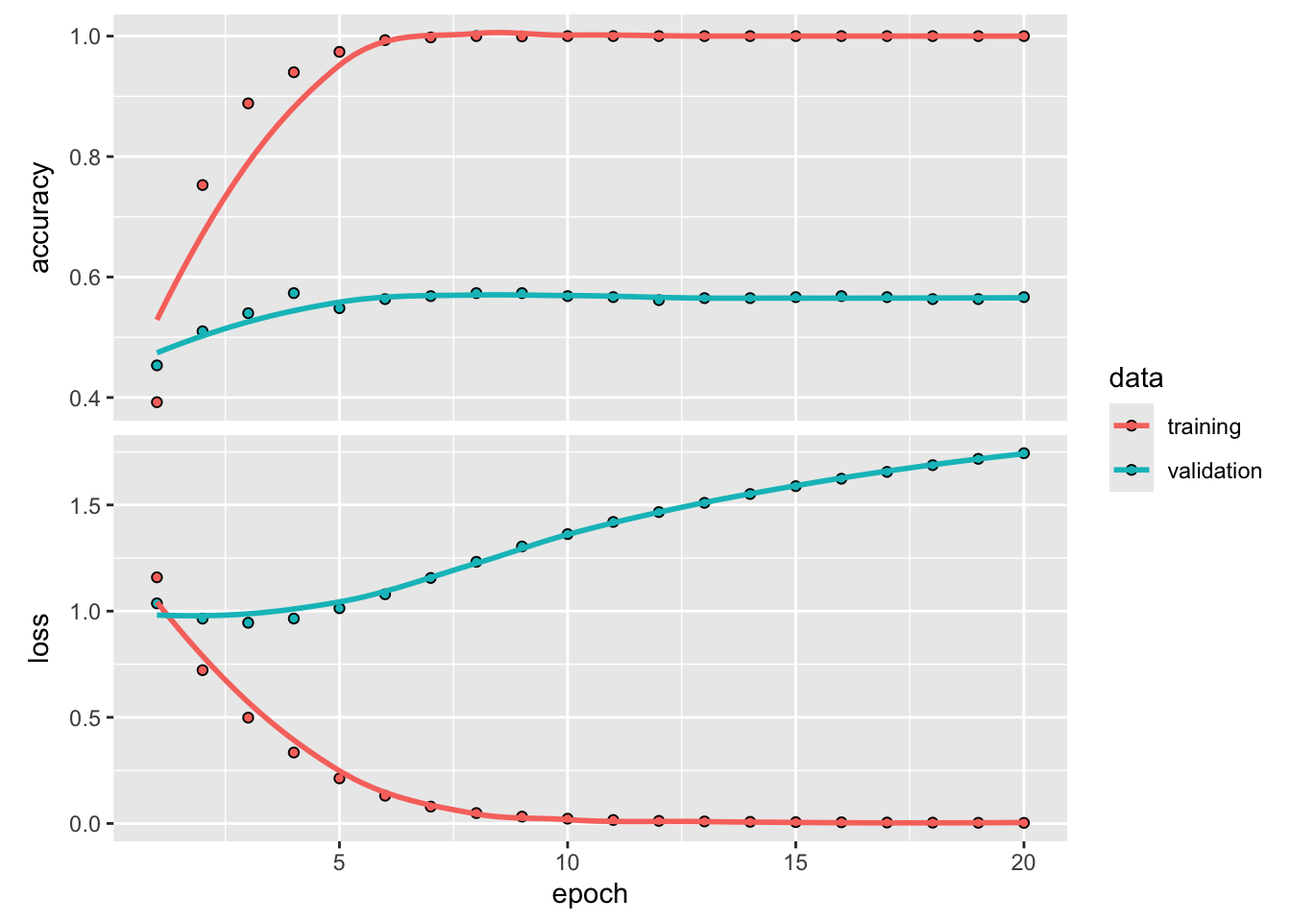
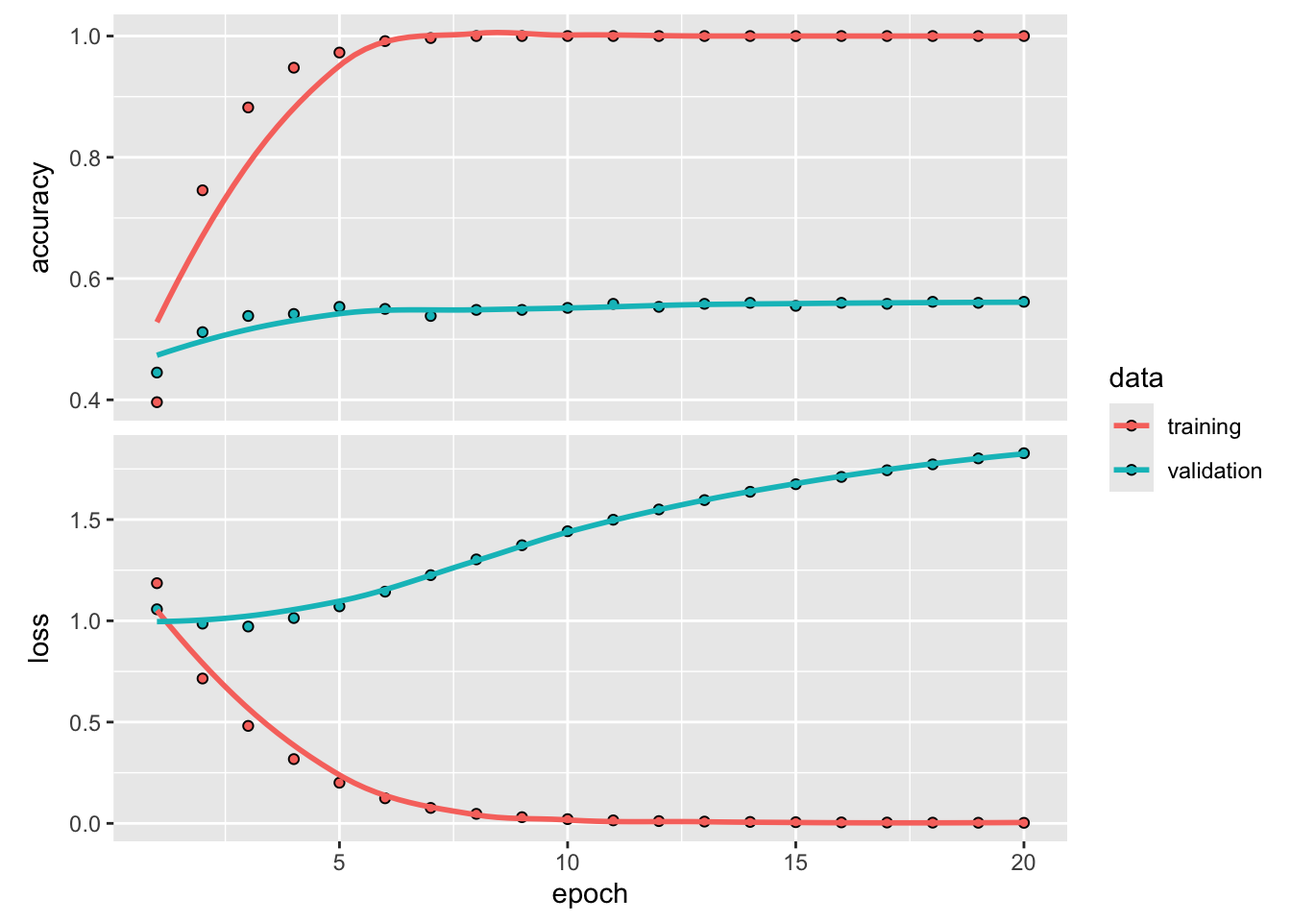
dnn upd (one-hot encoding)

diff --git a/docs/dnn.html b/docs/dnn.html
@@ -329,9 +329,12 @@ pre > code.sourceCode > span > a:first-child::before { text-decoration: underlin
   <ul>
   <li><a href="#пакеты-и-виртуальное-окружение" id="toc-пакеты-и-виртуальное-окружение" class="nav-link active" data-scroll-target="#пакеты-и-виртуальное-окружение"><span class="header-section-number">26.1</span> Пакеты и виртуальное окружение</a></li>
   <li><a href="#данные" id="toc-данные" class="nav-link" data-scroll-target="#данные"><span class="header-section-number">26.2</span> Данные</a></li>
-  <li><a href="#препроцессинг" id="toc-препроцессинг" class="nav-link" data-scroll-target="#препроцессинг"><span class="header-section-number">26.3</span> Препроцессинг</a></li>
+  <li><a href="#препроцессинг-bow" id="toc-препроцессинг-bow" class="nav-link" data-scroll-target="#препроцессинг-bow"><span class="header-section-number">26.3</span> Препроцессинг: BOW</a></li>
   <li><a href="#перекодирование-меток" id="toc-перекодирование-меток" class="nav-link" data-scroll-target="#перекодирование-меток"><span class="header-section-number">26.4</span> Перекодирование меток</a></li>
-  <li><a href="#полносвязная-нейросеть" id="toc-полносвязная-нейросеть" class="nav-link" data-scroll-target="#полносвязная-нейросеть"><span class="header-section-number">27</span> Полносвязная нейросеть</a></li>
+  <li><a href="#dnn-bow" id="toc-dnn-bow" class="nav-link" data-scroll-target="#dnn-bow"><span class="header-section-number">26.5</span> DNN: BOW</a></li>
+  <li><a href="#препроцессинг-one-hot" id="toc-препроцессинг-one-hot" class="nav-link" data-scroll-target="#препроцессинг-one-hot"><span class="header-section-number">26.6</span> Препроцессинг: One-Hot</a></li>
+  <li><a href="#dnn-one-hot" id="toc-dnn-one-hot" class="nav-link" data-scroll-target="#dnn-one-hot"><span class="header-section-number">26.7</span> DNN: One-hot</a></li>
+  <li><a href="#предсказание" id="toc-предсказание" class="nav-link" data-scroll-target="#предсказание"><span class="header-section-number">26.8</span> Предсказание</a></li>
   </ul>
 </nav>
     </div>
@@ -435,8 +438,8 @@ NOTE: Python version was forced by use_python() function</code></pre>
 </div>
 </div>
 </section>
-<section id="препроцессинг" class="level2" data-number="26.3">
-<h2 data-number="26.3" class="anchored" data-anchor-id="препроцессинг"><span class="header-section-number">26.3</span> Препроцессинг</h2>
+<section id="препроцессинг-bow" class="level2" data-number="26.3">
+<h2 data-number="26.3" class="anchored" data-anchor-id="препроцессинг-bow"><span class="header-section-number">26.3</span> Препроцессинг: BOW</h2>
 <div class="cell">
 <div class="sourceCode cell-code" id="cb14"><pre class="sourceCode r code-with-copy"><code class="sourceCode r"><span id="cb14-1"><a href="#cb14-1" aria-hidden="true" tabindex="-1"></a><span class="fu">library</span>(stopwords)</span>
 <span id="cb14-2"><a href="#cb14-2" aria-hidden="true" tabindex="-1"></a>stopwords_ru <span class="ot">&lt;-</span> <span class="fu">c</span>(</span>
@@ -493,7 +496,12 @@ NOTE: Python version was forced by use_python() function</code></pre>
 [3,]    0    0    1  # Класс 2
 [4,]    0    1    0  # Класс 1
 [5,]    1    0    0  # Класс 0</code></pre>
-<p>Здесь: - Каждая строка соответствует одному образцу. - Каждый столбец – это конкретный класс. - 1 стоит в позиции индекса класса, остальное – <code>0</code>.</p>
+<p>Здесь:</p>
+<ul>
+<li>Каждая строка соответствует одному образцу.</li>
+<li>Каждый столбец – это конкретный класс.</li>
+<li>1 стоит в позиции индекса класса, остальное – <code>0</code>.</li>
+</ul>
 <p>Эта функция используется в нейронных сетях (Keras, TensorFlow), потому что выходной слой <strong>softmax</strong> ожидает one-hot представление меток классов.</p>
 <div class="cell">
 <div class="sourceCode cell-code" id="cb20"><pre class="sourceCode r code-with-copy"><code class="sourceCode r"><span id="cb20-1"><a href="#cb20-1" aria-hidden="true" tabindex="-1"></a>sentiment_train <span class="ot">&lt;-</span> keras3<span class="sc">::</span><span class="fu">to_categorical</span>(sentiment_train<span class="dv">-1</span>, <span class="at">num_classes =</span> <span class="dv">3</span>)</span>
@@ -518,8 +526,8 @@ NOTE: Python version was forced by use_python() function</code></pre>
 <span id="cb22-6"><a href="#cb22-6" aria-hidden="true" tabindex="-1"></a>sentiment_valid <span class="ot">&lt;-</span> keras3<span class="sc">::</span><span class="fu">to_categorical</span>(sentiment_valid<span class="dv">-1</span>, <span class="at">num_classes =</span> <span class="dv">3</span>)</span></code><button title="Скопировать текст" class="code-copy-button"><i class="bi"></i></button></pre></div>
 </div>
 </section>
-<section id="полносвязная-нейросеть" class="level1" data-number="27">
-<h1 data-number="27"><span class="header-section-number">27</span> Полносвязная нейросеть</h1>
+<section id="dnn-bow" class="level2" data-number="26.5">
+<h2 data-number="26.5" class="anchored" data-anchor-id="dnn-bow"><span class="header-section-number">26.5</span> DNN: BOW</h2>
 <div class="cell">
 <div class="sourceCode cell-code" id="cb23"><pre class="sourceCode r code-with-copy"><code class="sourceCode r"><span id="cb23-1"><a href="#cb23-1" aria-hidden="true" tabindex="-1"></a>bow_model <span class="ot">&lt;-</span> keras3<span class="sc">::</span><span class="fu">keras_model_sequential</span>() <span class="sc">|&gt;</span> </span>
 <span id="cb23-2"><a href="#cb23-2" aria-hidden="true" tabindex="-1"></a>  <span class="fu">layer_dense</span>(<span class="at">units =</span> <span class="dv">64</span>, <span class="at">activation =</span> <span class="st">"relu"</span>) <span class="sc">|&gt;</span> </span>
@@ -584,13 +592,13 @@ NOTE: Python version was forced by use_python() function</code></pre>
 <pre><code>
 Final epoch (plot to see history):
     accuracy: 1
-        loss: 0.003014
-val_accuracy: 0.5667
-    val_loss: 1.744 </code></pre>
+        loss: 0.002697
+val_accuracy: 0.5617
+    val_loss: 1.828 </code></pre>
 </div>
 </div>
 <div class="cell">
-<div class="sourceCode cell-code" id="cb29"><pre class="sourceCode r code-with-copy"><code class="sourceCode r"><span id="cb29-1"><a href="#cb29-1" aria-hidden="true" tabindex="-1"></a><span class="fu">plot</span>(bow_history)</span></code><button title="Скопировать текст" class="code-copy-button"><i class="bi"></i></button></pre></div>
+<div class="sourceCode cell-code" id="cb29"><pre class="sourceCode r code-with-copy"><code class="sourceCode r"><span id="cb29-1"><a href="#cb29-1" aria-hidden="true" tabindex="-1"></a><span class="fu">plot</span>(bow_history) </span></code><button title="Скопировать текст" class="code-copy-button"><i class="bi"></i></button></pre></div>
 <div class="cell-output-display">
 <div>
 <figure class="figure">
@@ -606,9 +614,178 @@ val_accuracy: 0.5667
 <pre><code>
 Final epoch (plot to see history):
     accuracy: 1
-        loss: 0.003014
-val_accuracy: 0.5667
-    val_loss: 1.744 </code></pre>
+        loss: 0.002697
+val_accuracy: 0.5617
+    val_loss: 1.828 </code></pre>
+</div>
+</div>
+</section>
+<section id="препроцессинг-one-hot" class="level2" data-number="26.6">
+<h2 data-number="26.6" class="anchored" data-anchor-id="препроцессинг-one-hot"><span class="header-section-number">26.6</span> Препроцессинг: One-Hot</h2>
+<div class="cell">
+<div class="sourceCode cell-code" id="cb32"><pre class="sourceCode r code-with-copy"><code class="sourceCode r"><span id="cb32-1"><a href="#cb32-1" aria-hidden="true" tabindex="-1"></a>onehot_rec <span class="ot">&lt;-</span> <span class="fu">recipe</span>( <span class="sc">~</span> review, <span class="at">data =</span> data_train)  <span class="sc">|&gt;</span>  </span>
+<span id="cb32-2"><a href="#cb32-2" aria-hidden="true" tabindex="-1"></a>  <span class="fu">step_tokenize</span>(review)  <span class="sc">|&gt;</span>  </span>
+<span id="cb32-3"><a href="#cb32-3" aria-hidden="true" tabindex="-1"></a>  <span class="fu">step_tokenfilter</span>(review, <span class="at">max_tokens =</span> <span class="dv">2000</span>) <span class="sc">|&gt;</span> </span>
+<span id="cb32-4"><a href="#cb32-4" aria-hidden="true" tabindex="-1"></a>  <span class="fu">step_sequence_onehot</span>(review, <span class="at">sequence_length =</span> <span class="dv">400</span>)</span></code><button title="Скопировать текст" class="code-copy-button"><i class="bi"></i></button></pre></div>
+</div>
+<div class="cell">
+<div class="sourceCode cell-code" id="cb33"><pre class="sourceCode r code-with-copy"><code class="sourceCode r"><span id="cb33-1"><a href="#cb33-1" aria-hidden="true" tabindex="-1"></a><span class="co"># prep and bake</span></span>
+<span id="cb33-2"><a href="#cb33-2" aria-hidden="true" tabindex="-1"></a>onehot_prep <span class="ot">&lt;-</span> <span class="fu">prep</span>(onehot_rec)</span></code><button title="Скопировать текст" class="code-copy-button"><i class="bi"></i></button></pre></div>
+</div>
+<div class="cell">
+<div class="sourceCode cell-code" id="cb34"><pre class="sourceCode r code-with-copy"><code class="sourceCode r"><span id="cb34-1"><a href="#cb34-1" aria-hidden="true" tabindex="-1"></a>train_onehot_baked <span class="ot">&lt;-</span> <span class="fu">bake</span>(onehot_prep,</span>
+<span id="cb34-2"><a href="#cb34-2" aria-hidden="true" tabindex="-1"></a>                           <span class="at">new_data =</span> <span class="cn">NULL</span>,</span>
+<span id="cb34-3"><a href="#cb34-3" aria-hidden="true" tabindex="-1"></a>                           <span class="at">composition =</span> <span class="st">"matrix"</span>)</span></code><button title="Скопировать текст" class="code-copy-button"><i class="bi"></i></button></pre></div>
+</div>
+<div class="cell">
+<div class="sourceCode cell-code" id="cb35"><pre class="sourceCode r code-with-copy"><code class="sourceCode r"><span id="cb35-1"><a href="#cb35-1" aria-hidden="true" tabindex="-1"></a>valid_onehot_baked <span class="ot">&lt;-</span> <span class="fu">bake</span>(onehot_prep, </span>
+<span id="cb35-2"><a href="#cb35-2" aria-hidden="true" tabindex="-1"></a>                           <span class="at">new_data =</span> data_validate,</span>
+<span id="cb35-3"><a href="#cb35-3" aria-hidden="true" tabindex="-1"></a>                           <span class="at">composition =</span> <span class="st">"matrix"</span>)</span></code><button title="Скопировать текст" class="code-copy-button"><i class="bi"></i></button></pre></div>
+</div>
+</section>
+<section id="dnn-one-hot" class="level2" data-number="26.7">
+<h2 data-number="26.7" class="anchored" data-anchor-id="dnn-one-hot"><span class="header-section-number">26.7</span> DNN: One-hot</h2>
+<div class="cell">
+<div class="sourceCode cell-code" id="cb36"><pre class="sourceCode r code-with-copy"><code class="sourceCode r"><span id="cb36-1"><a href="#cb36-1" aria-hidden="true" tabindex="-1"></a>dense_model <span class="ot">&lt;-</span> <span class="fu">keras_model_sequential</span>() <span class="sc">|&gt;</span> </span>
+<span id="cb36-2"><a href="#cb36-2" aria-hidden="true" tabindex="-1"></a>  <span class="fu">layer_embedding</span>(<span class="at">input_dim =</span> <span class="dv">2001</span>,</span>
+<span id="cb36-3"><a href="#cb36-3" aria-hidden="true" tabindex="-1"></a>                  <span class="at">output_dim =</span> <span class="dv">64</span>) <span class="sc">|&gt;</span> </span>
+<span id="cb36-4"><a href="#cb36-4" aria-hidden="true" tabindex="-1"></a>  <span class="fu">layer_flatten</span>() <span class="sc">|&gt;</span> </span>
+<span id="cb36-5"><a href="#cb36-5" aria-hidden="true" tabindex="-1"></a>  <span class="fu">layer_dense</span>(<span class="at">units =</span> <span class="dv">64</span>, <span class="at">activation =</span> <span class="st">"relu"</span>) <span class="sc">|&gt;</span> </span>
+<span id="cb36-6"><a href="#cb36-6" aria-hidden="true" tabindex="-1"></a>  <span class="fu">layer_dense</span>(<span class="at">units =</span> <span class="dv">3</span>, <span class="at">activation =</span> <span class="st">"softmax"</span>)</span>
+<span id="cb36-7"><a href="#cb36-7" aria-hidden="true" tabindex="-1"></a></span>
+<span id="cb36-8"><a href="#cb36-8" aria-hidden="true" tabindex="-1"></a>dense_model</span></code><button title="Скопировать текст" class="code-copy-button"><i class="bi"></i></button></pre></div>
+<div class="cell-output cell-output-stdout">
+<pre><code>Model: "sequential_1"
+┏━━━━━━━━━━━━━━━━━━━━━━━━━━━━━━━━━━━┳━━━━━━━━━━━━━━━━━━━━━━━━━━┳━━━━━━━━━━━━━━━┓
+┃ Layer (type)                      ┃ Output Shape             ┃       Param # ┃
+┡━━━━━━━━━━━━━━━━━━━━━━━━━━━━━━━━━━━╇━━━━━━━━━━━━━━━━━━━━━━━━━━╇━━━━━━━━━━━━━━━┩
+│ embedding (Embedding)             │ ?                        │   0 (unbuilt) │
+├───────────────────────────────────┼──────────────────────────┼───────────────┤
+│ flatten (Flatten)                 │ ?                        │   0 (unbuilt) │
+├───────────────────────────────────┼──────────────────────────┼───────────────┤
+│ dense_3 (Dense)                   │ ?                        │   0 (unbuilt) │
+├───────────────────────────────────┼──────────────────────────┼───────────────┤
+│ dense_4 (Dense)                   │ ?                        │   0 (unbuilt) │
+└───────────────────────────────────┴──────────────────────────┴───────────────┘
+ Total params: 0 (0.00 B)
+ Trainable params: 0 (0.00 B)
+ Non-trainable params: 0 (0.00 B)</code></pre>
+</div>
+</div>
+<div class="cell">
+<div class="sourceCode cell-code" id="cb38"><pre class="sourceCode r code-with-copy"><code class="sourceCode r"><span id="cb38-1"><a href="#cb38-1" aria-hidden="true" tabindex="-1"></a>dense_model <span class="sc">|&gt;</span> </span>
+<span id="cb38-2"><a href="#cb38-2" aria-hidden="true" tabindex="-1"></a>  <span class="fu">compile</span>(</span>
+<span id="cb38-3"><a href="#cb38-3" aria-hidden="true" tabindex="-1"></a>  <span class="at">optimizer =</span> <span class="st">"adam"</span>,</span>
+<span id="cb38-4"><a href="#cb38-4" aria-hidden="true" tabindex="-1"></a>  <span class="at">loss =</span> <span class="st">"categorical_crossentropy"</span>,</span>
+<span id="cb38-5"><a href="#cb38-5" aria-hidden="true" tabindex="-1"></a>  <span class="at">metrics =</span> <span class="fu">c</span>(<span class="st">"accuracy"</span>)</span>
+<span id="cb38-6"><a href="#cb38-6" aria-hidden="true" tabindex="-1"></a>)</span></code><button title="Скопировать текст" class="code-copy-button"><i class="bi"></i></button></pre></div>
+</div>
+<div class="cell">
+<div class="sourceCode cell-code" id="cb39"><pre class="sourceCode r code-with-copy"><code class="sourceCode r"><span id="cb39-1"><a href="#cb39-1" aria-hidden="true" tabindex="-1"></a>dense_history <span class="ot">&lt;-</span> dense_model <span class="sc">|&gt;</span> </span>
+<span id="cb39-2"><a href="#cb39-2" aria-hidden="true" tabindex="-1"></a>  <span class="fu">fit</span>(</span>
+<span id="cb39-3"><a href="#cb39-3" aria-hidden="true" tabindex="-1"></a>    <span class="at">x =</span> train_onehot_baked ,</span>
+<span id="cb39-4"><a href="#cb39-4" aria-hidden="true" tabindex="-1"></a>    <span class="at">y =</span> sentiment_train,</span>
+<span id="cb39-5"><a href="#cb39-5" aria-hidden="true" tabindex="-1"></a>    <span class="at">batch_size =</span> <span class="dv">100</span>,</span>
+<span id="cb39-6"><a href="#cb39-6" aria-hidden="true" tabindex="-1"></a>    <span class="at">epochs =</span> <span class="dv">20</span>,</span>
+<span id="cb39-7"><a href="#cb39-7" aria-hidden="true" tabindex="-1"></a>    <span class="at">validation_data =</span> <span class="fu">list</span>(valid_onehot_baked, sentiment_valid), </span>
+<span id="cb39-8"><a href="#cb39-8" aria-hidden="true" tabindex="-1"></a>    <span class="at">verbose =</span> <span class="cn">FALSE</span></span>
+<span id="cb39-9"><a href="#cb39-9" aria-hidden="true" tabindex="-1"></a>  )</span></code><button title="Скопировать текст" class="code-copy-button"><i class="bi"></i></button></pre></div>
+</div>
+<div class="cell">
+<div class="sourceCode cell-code" id="cb40"><pre class="sourceCode r code-with-copy"><code class="sourceCode r"><span id="cb40-1"><a href="#cb40-1" aria-hidden="true" tabindex="-1"></a><span class="fu">plot</span>(dense_history)</span></code><button title="Скопировать текст" class="code-copy-button"><i class="bi"></i></button></pre></div>
+<div class="cell-output-display">
+<div>
+<figure class="figure">
+<p><img src="dnn_files/figure-html/unnamed-chunk-26-1.png" class="img-fluid figure-img" width="672"></p>
+</figure>
+</div>
+</div>
+</div>
+</section>
+<section id="предсказание" class="level2" data-number="26.8">
+<h2 data-number="26.8" class="anchored" data-anchor-id="предсказание"><span class="header-section-number">26.8</span> Предсказание</h2>
+<div class="cell">
+<div class="sourceCode cell-code" id="cb41"><pre class="sourceCode r code-with-copy"><code class="sourceCode r"><span id="cb41-1"><a href="#cb41-1" aria-hidden="true" tabindex="-1"></a>dense_res <span class="ot">&lt;-</span> <span class="fu">predict</span>(<span class="at">object =</span> dense_model, </span>
+<span id="cb41-2"><a href="#cb41-2" aria-hidden="true" tabindex="-1"></a>                   <span class="at">x =</span> valid_onehot_baked</span>
+<span id="cb41-3"><a href="#cb41-3" aria-hidden="true" tabindex="-1"></a>)</span></code><button title="Скопировать текст" class="code-copy-button"><i class="bi"></i></button></pre></div>
+<div class="cell-output cell-output-stdout">
+<pre><code>19/19 - 0s - 5ms/step</code></pre>
+</div>
+<div class="sourceCode cell-code" id="cb43"><pre class="sourceCode r code-with-copy"><code class="sourceCode r"><span id="cb43-1"><a href="#cb43-1" aria-hidden="true" tabindex="-1"></a><span class="fu">head</span>(dense_res)</span></code><button title="Скопировать текст" class="code-copy-button"><i class="bi"></i></button></pre></div>
+<div class="cell-output cell-output-stdout">
+<pre><code>          [,1]        [,2]        [,3]
+[1,] 0.9899594 0.005354058 0.004686453
+[2,] 0.3758484 0.510795474 0.113356218
+[3,] 0.9771895 0.000415861 0.022394525
+[4,] 0.9713955 0.021642592 0.006962005
+[5,] 0.6321248 0.336982816 0.030892473
+[6,] 0.3736731 0.574162245 0.052164607</code></pre>
+</div>
+</div>
+<div class="cell">
+<div class="sourceCode cell-code" id="cb45"><pre class="sourceCode r code-with-copy"><code class="sourceCode r"><span id="cb45-1"><a href="#cb45-1" aria-hidden="true" tabindex="-1"></a>factor_names <span class="ot">&lt;-</span> <span class="fu">tibble</span>(<span class="at">levels =</span> <span class="fu">levels</span>(data_train<span class="sc">$</span>sentiment),</span>
+<span id="cb45-2"><a href="#cb45-2" aria-hidden="true" tabindex="-1"></a>                       <span class="at">.pred_clas =</span> <span class="dv">1</span><span class="sc">:</span><span class="dv">3</span>)</span>
+<span id="cb45-3"><a href="#cb45-3" aria-hidden="true" tabindex="-1"></a></span>
+<span id="cb45-4"><a href="#cb45-4" aria-hidden="true" tabindex="-1"></a>factor_names</span></code><button title="Скопировать текст" class="code-copy-button"><i class="bi"></i></button></pre></div>
+<div class="cell-output-display">
+<div data-pagedtable="false">
+  <script data-pagedtable-source="" type="application/json">
+{"columns":[{"label":["levels"],"name":[1],"type":["chr"],"align":["left"]},{"label":[".pred_clas"],"name":[2],"type":["int"],"align":["right"]}],"data":[{"1":"neg","2":"1"},{"1":"neu","2":"2"},{"1":"pos","2":"3"}],"options":{"columns":{"min":{},"max":[10]},"rows":{"min":[10],"max":[10]},"pages":{}}}
+  </script>
+</div>
+</div>
+</div>
+<div class="cell">
+<div class="sourceCode cell-code" id="cb46"><pre class="sourceCode r code-with-copy"><code class="sourceCode r"><span id="cb46-1"><a href="#cb46-1" aria-hidden="true" tabindex="-1"></a>pred_clas <span class="ot">&lt;-</span> <span class="fu">apply</span>(dense_res, <span class="dv">1</span>, which.max)</span>
+<span id="cb46-2"><a href="#cb46-2" aria-hidden="true" tabindex="-1"></a></span>
+<span id="cb46-3"><a href="#cb46-3" aria-hidden="true" tabindex="-1"></a><span class="fu">head</span>(pred_clas)</span></code><button title="Скопировать текст" class="code-copy-button"><i class="bi"></i></button></pre></div>
+<div class="cell-output cell-output-stdout">
+<pre><code>[1] 1 2 1 1 1 2</code></pre>
+</div>
+</div>
+<div class="cell">
+<div class="sourceCode cell-code" id="cb48"><pre class="sourceCode r code-with-copy"><code class="sourceCode r"><span id="cb48-1"><a href="#cb48-1" aria-hidden="true" tabindex="-1"></a>dense_res_tbl <span class="ot">&lt;-</span> <span class="fu">tibble</span>(<span class="at">truth =</span> data_validate<span class="sc">$</span>sentiment, </span>
+<span id="cb48-2"><a href="#cb48-2" aria-hidden="true" tabindex="-1"></a>                      <span class="at">.pred_clas =</span> pred_clas) <span class="sc">|&gt;</span> </span>
+<span id="cb48-3"><a href="#cb48-3" aria-hidden="true" tabindex="-1"></a>  <span class="fu">left_join</span>(factor_names) <span class="sc">|&gt;</span> </span>
+<span id="cb48-4"><a href="#cb48-4" aria-hidden="true" tabindex="-1"></a>  dplyr<span class="sc">::</span><span class="fu">select</span>(<span class="sc">-</span>(.pred_clas)) <span class="sc">|&gt;</span> </span>
+<span id="cb48-5"><a href="#cb48-5" aria-hidden="true" tabindex="-1"></a>  <span class="fu">rename</span>(<span class="at">.pred_clas =</span> levels) <span class="sc">|&gt;</span> </span>
+<span id="cb48-6"><a href="#cb48-6" aria-hidden="true" tabindex="-1"></a>  <span class="fu">mutate</span>(<span class="at">.pred_clas =</span> <span class="fu">as.factor</span>(.pred_clas),</span>
+<span id="cb48-7"><a href="#cb48-7" aria-hidden="true" tabindex="-1"></a>         <span class="at">truth =</span> <span class="fu">as.factor</span>(truth))</span>
+<span id="cb48-8"><a href="#cb48-8" aria-hidden="true" tabindex="-1"></a></span>
+<span id="cb48-9"><a href="#cb48-9" aria-hidden="true" tabindex="-1"></a><span class="fu">metrics</span>(dense_res_tbl, <span class="at">truth =</span> truth, <span class="at">estimate =</span> .pred_clas)</span></code><button title="Скопировать текст" class="code-copy-button"><i class="bi"></i></button></pre></div>
+<div class="cell-output-display">
+<div data-pagedtable="false">
+  <script data-pagedtable-source="" type="application/json">
+{"columns":[{"label":[".metric"],"name":[1],"type":["chr"],"align":["left"]},{"label":[".estimator"],"name":[2],"type":["chr"],"align":["left"]},{"label":[".estimate"],"name":[3],"type":["dbl"],"align":["right"]}],"data":[{"1":"accuracy","2":"multiclass","3":"0.6"},{"1":"kap","2":"multiclass","3":"0.4"}],"options":{"columns":{"min":{},"max":[10]},"rows":{"min":[10],"max":[10]},"pages":{}}}
+  </script>
+</div>
+</div>
+</div>
+<div class="cell">
+<div class="sourceCode cell-code" id="cb49"><pre class="sourceCode r code-with-copy"><code class="sourceCode r"><span id="cb49-1"><a href="#cb49-1" aria-hidden="true" tabindex="-1"></a>dense_res_tbl <span class="sc">|&gt;</span> </span>
+<span id="cb49-2"><a href="#cb49-2" aria-hidden="true" tabindex="-1"></a>  <span class="fu">group_by</span>(truth, .pred_clas) <span class="sc">|&gt;</span> </span>
+<span id="cb49-3"><a href="#cb49-3" aria-hidden="true" tabindex="-1"></a>  <span class="fu">summarise</span>(<span class="at">n =</span> <span class="fu">n</span>()) <span class="sc">|&gt;</span> </span>
+<span id="cb49-4"><a href="#cb49-4" aria-hidden="true" tabindex="-1"></a>  <span class="fu">ungroup</span>() <span class="sc">|&gt;</span> </span>
+<span id="cb49-5"><a href="#cb49-5" aria-hidden="true" tabindex="-1"></a>  <span class="fu">ggplot</span>(<span class="fu">aes</span>(truth, .pred_clas, <span class="at">fill =</span> n)) <span class="sc">+</span></span>
+<span id="cb49-6"><a href="#cb49-6" aria-hidden="true" tabindex="-1"></a>  <span class="fu">geom_tile</span>() <span class="sc">+</span></span>
+<span id="cb49-7"><a href="#cb49-7" aria-hidden="true" tabindex="-1"></a>  <span class="fu">geom_text</span>(<span class="fu">aes</span>(<span class="at">label =</span> n)) <span class="sc">+</span></span>
+<span id="cb49-8"><a href="#cb49-8" aria-hidden="true" tabindex="-1"></a>  <span class="fu">scale_fill_gradient2</span>(<span class="at">low =</span> <span class="st">"#eaeff6"</span>, <span class="at">high =</span> <span class="st">"#233857"</span>) <span class="sc">+</span></span>
+<span id="cb49-9"><a href="#cb49-9" aria-hidden="true" tabindex="-1"></a>  <span class="fu">theme</span>(<span class="at">panel.grid.major =</span> <span class="fu">element_line</span>(<span class="at">colour =</span> <span class="st">"#233857"</span>),</span>
+<span id="cb49-10"><a href="#cb49-10" aria-hidden="true" tabindex="-1"></a>        <span class="at">axis.text =</span> <span class="fu">element_text</span>(<span class="at">color =</span> <span class="st">"#233857"</span>),</span>
+<span id="cb49-11"><a href="#cb49-11" aria-hidden="true" tabindex="-1"></a>        <span class="at">axis.title =</span> <span class="fu">element_text</span>(<span class="at">color =</span> <span class="st">"#233857"</span>),</span>
+<span id="cb49-12"><a href="#cb49-12" aria-hidden="true" tabindex="-1"></a>        <span class="at">plot.title =</span> <span class="fu">element_text</span>(<span class="at">color =</span> <span class="st">"#233857"</span>),</span>
+<span id="cb49-13"><a href="#cb49-13" aria-hidden="true" tabindex="-1"></a>        <span class="at">axis.text.x =</span> <span class="fu">element_text</span>(<span class="at">angle =</span> <span class="dv">45</span>, <span class="at">hjust =</span> <span class="dv">1</span>)) <span class="sc">+</span></span>
+<span id="cb49-14"><a href="#cb49-14" aria-hidden="true" tabindex="-1"></a>  <span class="fu">ggtitle</span>(<span class="st">"Dense Neural Network"</span>)</span></code><button title="Скопировать текст" class="code-copy-button"><i class="bi"></i></button></pre></div>
+<div class="cell-output cell-output-stderr">
+<pre><code>`summarise()` has grouped output by 'truth'. You can override using the
+`.groups` argument.</code></pre>
+</div>
+<div class="cell-output-display">
+<div>
+<figure class="figure">
+<p><img src="dnn_files/figure-html/unnamed-chunk-31-1.png" class="img-fluid figure-img" width="672"></p>
+</figure>
+</div>
 </div>
 </div>
 
